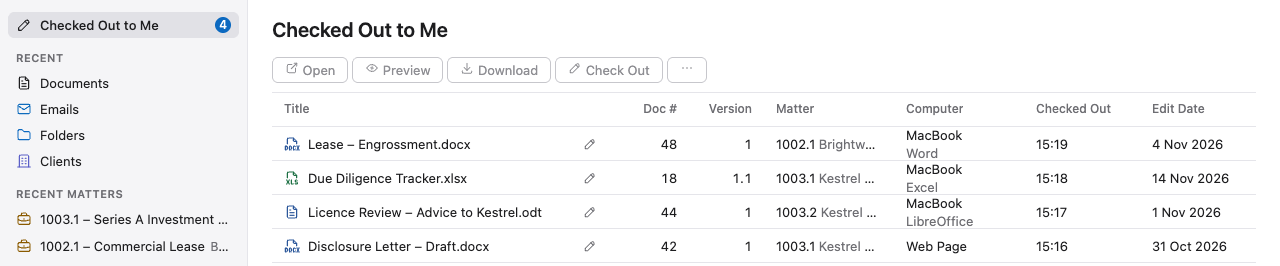
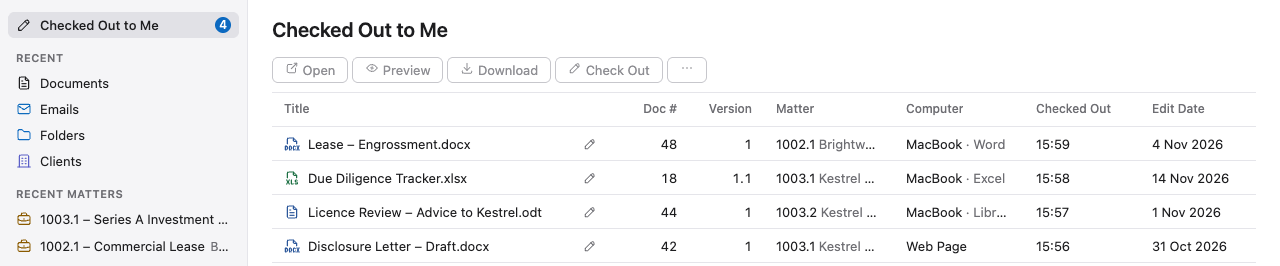
Bring the docs and test lists up to date with Checked Out to Me
- CLAUDE.md and the Developer Guide's Tests page list checked-out.spec.ts,
  and say a11y.spec.ts checks Checked Out to Me and the release warning.
- Checking Out and Checking In: the Computer column's app beside the
  computer, retaken pictures from a rebuilt image with shorter alt texts,
  same-named computers listed apart, who sees the History tab, and a
  crashed copy reopened on that computer checking out again.
- Document History: a release in the app records "The document has been
  unlocked", naming the computer and app when one of yours held it.
- openapi.yaml and the API page: a release with elsewhere=true isn't
  held-elsewhere, and an administrator's release of a device's check-out
  is recorded with the device and app too.
- The Web App page: the warning groups by device.

diff --git a/CLAUDE.md b/CLAUDE.md
@@ -117,7 +117,7 @@ python3 docker/demo/build.py                              # the demo firm's file
 - Tests (the Developer Guide's Tests page describes each):
   - `docker build --target tools .` for the init tool's unit tests (`DbInitPlanTest` reads the WAR's own `DbInit` scripts), and `WarParsersTest`, which parses a `.pptx`, an `.xlsx` and an `.xls` with the server's parsers for them on the WAR's own `WEB-INF/lib`. Maven's test classpath has every library's dependencies, so only it catches one of POI's that no plugin zip ships (#202). Other parsers' libraries aren't checked. `WarStorageTest`, beside it, does the same for `healdan-storage`'s zip. It builds the S3 client as the S3 backend does and sends one request to a closed loopback port, and it round-trips 3 MiB through Tink's streaming AEAD. A class of the AWS SDK's or Tink's that the zip leaves out fails the image build. `PluginInstallTest` installs the plugins as DockerInit does, then starts them again in a second JVM, as Tomcat does, which must ask for no restart. The copy of `web.xml` its installs edit is the one the image ships, so a container made afresh, whose plugins the repository volume says are installed, has their edits.
   - `docker/tests/test-*.sh`. Beside them, `docker/tests/bulk-documents.sh` isn't a test: it files `COUNT` generated documents into a folder on a throwaway stack (`BASE TOKEN FOLDER_ID COUNT [WORD]`), to measure big folders and searches.
-  - `docker/smoke-test.sh` for end to end. Its step 2b runs `docker/tests/test-proxies.sh`, which forwarded addresses Tomcat believes. Its step 5c runs `docker/tests/test-api.sh`, M2's client flow through `/api/v1` with a Bearer token, through CE's real filter chain (SOAP's addresses answering 404, sign in, file, check out, save, download, the throttle, LogicalDOC's `loginApiKey` refusing the token, sign out). That script needs a fresh stack with the smoke overlay (it signs in as `admin`/`admin`, and leaves a username blocked for 15 minutes). Its step 5d, only with `SMOKE_HELPER_TEST=1` (CI sets it, after setting up .NET), runs the helper's stack tests (`dotnet test clients/helper/Healdan.Helper.sln --filter Category=Stack` with `HEALDAN_STACK_URL`): `admin` opens, saves twice and closes a document through the helper's cycle, and `sso-helper2` signs in through the stand-in Keycloak as the helper does, with a fake browser (`HEALDAN_STACK_SIGNIN_PROVIDER`, `_USER`, `_PASSWORD`, and `HEALDAN_STACK_KEYCLOAK`, Keycloak's host port). Its step 5e runs `docker/tests/test-signin.sh`, provider sign-in through the stand-in Keycloak with `curl` and a cookie jar (the web page's flow, linking by email, the gate, the helper's code and its exchange, and a person disabled at Keycloak losing their device token at the next re-check). Its step 5f runs `docker/tests/test-storage.sh`, storage backends against the stand-in Garage: a file filed in Smoke Cloud reaches Garage encrypted, files moved in from Smoke move up uncached, reads come back through Garage and from the read cache, with Garage stopped a save waits in staging, an uncached file answers `503` through the API, `/download` and a shared link, and `/convertpdf` of an uncached PDF serves CE's placeholder, and a matter moved to Smoke brings its files home, Garage keeping them held. Step 8 runs it again with `after-restart`: the rows as they were, a file read through Garage for the first time, and one read from the cache rebuilt from its folder with Garage stopped. The script stops and starts Garage itself, and needs curl 8.0.0 or later, whose `--aws-sigv4` sends the `x-amz-content-sha256` header Garage requires. Its step 9, the last, runs `docker/tests/test-web.sh`, the User app in Chromium and WebKit: Playwright's specs (`healdan-web/web/e2e/`) in `mcr.microsoft.com/playwright:v<version>-noble`, whose tag is `@playwright/test`'s version in `package-lock.json`, with `--network host` (`WEB_NETWORK=bridge` is for Docker Desktop on a Mac: the browser still opens `127.0.0.1:<port>`, which a proxy in its container forwards to the host, as the web session refuses another Origin), signing in as `webuser` (see the smoke fixture overlay; `signin.spec.ts` follows a link into the app and a doc # link with its version, signed out, through the sign-in, `finding.spec.ts` files its own documents through the API and searches for them, `working.spec.ts` files a PDF and opens it in Quick Look, and checks that coming back to the window (a `focus` event) shows a check-out (in the details and the row's marker) and a save made through the API, `filing.spec.ts` files its own documents by dispatching drop events with a `DataTransfer` built in the page, and `organising.spec.ts` makes a folder, renames, moves (by the picker, and by a drag whose `dragstart` fills the same `DataTransfer` a drop reads) and deletes its own documents, in folders of its own inside the shared `E2E` folder, `folders.spec.ts` renames its own folders by F2, from the tree's ⋯, from the open folder's heading and from a right-click menu, once by keyboard alone, and checks Rename is greyed out on a top-level folder for a non-admin, `keyboard.spec.ts` walks rows 3 to 9 of M6's manual acceptance by keyboard alone, with no click after the sign-in page, in a folder of its own inside a shared `E2E` folder (it reaches controls with `tabTo`, starting some walks from a control it names and says why, focuses menu items and column headers directly, and leaves out Copy Link, whose clipboard differs between headless engines, and row 9's move into another matter, which would write through Garage after step 8 has checked its read cache; a step that can't be done by keys is a bug in the app), `resizing.spec.ts` drags the left pane's and the details' dividers and checks their widths survive a reload and that a narrow window has none, `context-menu.spec.ts` renames a document from the menu a right-click opens, moves one from the menu Shift+F10 opens on its row, by keys, and removes a favorite from its menu in My Favorites, in folders of its own inside the shared `E2E` folder (it adds matter 1.1 to My Matters for the move picker, and takes it out again after), `favorite-names.spec.ts` adds a folder of its own inside the shared `E2E` folder to My Favorites with its star, renames the favourite from its menu there, checks its name, tooltip and focus in the page and through the API, then gives it the folder's name back with Use Original Name (it removes the bookmark after, and the folder stays), and `a11y.spec.ts` runs axe on each main view in the light and the dark theme, in busy states and at 768 pixels, with contrast (it runs the workspace's own `axe-core` with `page.evaluate`, since `AppServlet`'s policy blocks a script tag with the source in it, and no spec turns the policy off), so step 9 first sets the Indexer, which runs every 30 minutes, to every 5 seconds in the conf volume's `context.properties` and restarts the app; it's last so that nothing else runs with a fast Indexer, which would read storage document C through Garage and fill the read cache that step 8 checks it never did. For a run of `test-web.sh` by hand, make the same change and set `HEALDAN_INDEXER_FAST=1`), then `curl` signs in, checking LogicalDOC's `SID` header, and checks that the web session refuses a cross-site sign-out and one without `X-Healdan-Client`, each call with `--max-time 30`. Playwright stops after 10 failures (`maxFailures`), so a broken stack fails the step in minutes, not the job's timeout. A new spec goes in `e2e/` and must not depend on what earlier smoke steps left. Its own API calls go through `helpers.ts`' `apiContext`, which sends each request on a connection of its own: Tomcat closes one that has waited 20 seconds, and a request sent on a kept one at that moment fails with `socket hang up`.
+  - `docker/smoke-test.sh` for end to end. Its step 2b runs `docker/tests/test-proxies.sh`, which forwarded addresses Tomcat believes. Its step 5c runs `docker/tests/test-api.sh`, M2's client flow through `/api/v1` with a Bearer token, through CE's real filter chain (SOAP's addresses answering 404, sign in, file, check out, save, download, the throttle, LogicalDOC's `loginApiKey` refusing the token, sign out). That script needs a fresh stack with the smoke overlay (it signs in as `admin`/`admin`, and leaves a username blocked for 15 minutes). Its step 5d, only with `SMOKE_HELPER_TEST=1` (CI sets it, after setting up .NET), runs the helper's stack tests (`dotnet test clients/helper/Healdan.Helper.sln --filter Category=Stack` with `HEALDAN_STACK_URL`): `admin` opens, saves twice and closes a document through the helper's cycle, and `sso-helper2` signs in through the stand-in Keycloak as the helper does, with a fake browser (`HEALDAN_STACK_SIGNIN_PROVIDER`, `_USER`, `_PASSWORD`, and `HEALDAN_STACK_KEYCLOAK`, Keycloak's host port). Its step 5e runs `docker/tests/test-signin.sh`, provider sign-in through the stand-in Keycloak with `curl` and a cookie jar (the web page's flow, linking by email, the gate, the helper's code and its exchange, and a person disabled at Keycloak losing their device token at the next re-check). Its step 5f runs `docker/tests/test-storage.sh`, storage backends against the stand-in Garage: a file filed in Smoke Cloud reaches Garage encrypted, files moved in from Smoke move up uncached, reads come back through Garage and from the read cache, with Garage stopped a save waits in staging, an uncached file answers `503` through the API, `/download` and a shared link, and `/convertpdf` of an uncached PDF serves CE's placeholder, and a matter moved to Smoke brings its files home, Garage keeping them held. Step 8 runs it again with `after-restart`: the rows as they were, a file read through Garage for the first time, and one read from the cache rebuilt from its folder with Garage stopped. The script stops and starts Garage itself, and needs curl 8.0.0 or later, whose `--aws-sigv4` sends the `x-amz-content-sha256` header Garage requires. Its step 9, the last, runs `docker/tests/test-web.sh`, the User app in Chromium and WebKit: Playwright's specs (`healdan-web/web/e2e/`) in `mcr.microsoft.com/playwright:v<version>-noble`, whose tag is `@playwright/test`'s version in `package-lock.json`, with `--network host` (`WEB_NETWORK=bridge` is for Docker Desktop on a Mac: the browser still opens `127.0.0.1:<port>`, which a proxy in its container forwards to the host, as the web session refuses another Origin), signing in as `webuser` (see the smoke fixture overlay; `signin.spec.ts` follows a link into the app and a doc # link with its version, signed out, through the sign-in, `finding.spec.ts` files its own documents through the API and searches for them, `working.spec.ts` files a PDF and opens it in Quick Look, and checks that coming back to the window (a `focus` event) shows a check-out (in the details and the row's marker) and a save made through the API, `filing.spec.ts` files its own documents by dispatching drop events with a `DataTransfer` built in the page, and `organising.spec.ts` makes a folder, renames, moves (by the picker, and by a drag whose `dragstart` fills the same `DataTransfer` a drop reads) and deletes its own documents, in folders of its own inside the shared `E2E` folder, `folders.spec.ts` renames its own folders by F2, from the tree's ⋯, from the open folder's heading and from a right-click menu, once by keyboard alone, and checks Rename is greyed out on a top-level folder for a non-admin, `keyboard.spec.ts` walks rows 3 to 9 of M6's manual acceptance by keyboard alone, with no click after the sign-in page, in a folder of its own inside a shared `E2E` folder (it reaches controls with `tabTo`, starting some walks from a control it names and says why, focuses menu items and column headers directly, and leaves out Copy Link, whose clipboard differs between headless engines, and row 9's move into another matter, which would write through Garage after step 8 has checked its read cache; a step that can't be done by keys is a bug in the app), `resizing.spec.ts` drags the left pane's and the details' dividers and checks their widths survive a reload and that a narrow window has none, `context-menu.spec.ts` renames a document from the menu a right-click opens, moves one from the menu Shift+F10 opens on its row, by keys, and removes a favorite from its menu in My Favorites, in folders of its own inside the shared `E2E` folder (it adds matter 1.1 to My Matters for the move picker, and takes it out again after), `favorite-names.spec.ts` adds a folder of its own inside the shared `E2E` folder to My Favorites with its star, renames the favourite from its menu there, checks its name, tooltip and focus in the page and through the API, then gives it the folder's name back with Use Original Name (it removes the bookmark after, and the folder stays), `checked-out.spec.ts` files a `.docx` with a device token in a folder of its own inside the shared `E2E` folder, checks it out for Word with that token, opens Checked Out to Me, checks the row's computer and app and that the entry's badge equals the list's row count, opens the warning and cancels, releases with Release Document, and checks that the token's save with `ifHeld: true` is then `409 not-held` (it releases and signs the token out after), and `a11y.spec.ts` runs axe on each main view, Checked Out to Me and the warning before a release among them, in the light and the dark theme, in busy states and at 768 pixels, with contrast (it runs the workspace's own `axe-core` with `page.evaluate`, since `AppServlet`'s policy blocks a script tag with the source in it, and no spec turns the policy off), so step 9 first sets the Indexer, which runs every 30 minutes, to every 5 seconds in the conf volume's `context.properties` and restarts the app; it's last so that nothing else runs with a fast Indexer, which would read storage document C through Garage and fill the read cache that step 8 checks it never did. For a run of `test-web.sh` by hand, make the same change and set `HEALDAN_INDEXER_FAST=1`), then `curl` signs in, checking LogicalDOC's `SID` header, and checks that the web session refuses a cross-site sign-out and one without `X-Healdan-Client`, each call with `--max-time 30`. Playwright stops after 10 failures (`maxFailures`), so a broken stack fails the step in minutes, not the job's timeout. A new spec goes in `e2e/` and must not depend on what earlier smoke steps left. Its own API calls go through `helpers.ts`' `apiContext`, which sends each request on a connection of its own: Tomcat closes one that has waited 20 seconds, and a request sent on a kept one at that moment fails with `socket hang up`.
     - When it fails, it prints the app container's last output, Keycloak's, Garage's and its setup's, then the run's warnings and errors, the last three API requests that failed with a `500` with their stack frames (a client that went away, Tomcat's `ClientAbortException`, isn't one: `ProblemMapper` logs it in one line at info, its frames at debug, and writes no problem to it, and the dump skips one an older server logged), and the tail of `dms.log`, the server's own log. A failed browser test in step 9 prints its page as Playwright saw it. The app's warnings go only there, in the repository volume, which step 8's restart keeps. Each `FAIL` line ends with its UTC time, and the smoke stack logs in UTC.
 - **The smoke fixture overlay.** Healdan refuses documents outside a matter, and a fresh stack has none. `docker/tests/compose.smoke.yaml` sets `HEALDAN_SMOKE_FIXTURE=true`, which makes the `smoke-fixture` seed create Store "Smoke", a template, client 1 and matter 1.1 with a Documents folder, the `smoke-organising` seed give Everyone Rename, Move and Delete in that template and the matters made from it (a step of its own, as a shipped step never changes), and the `smoke-api-user` seed the non-admin `apiuser` that `test-api.sh` signs in as, and `smoke-web-user` the non-admin `webuser` that `test-web.sh` signs in as, apart from `apiuser` because `test-api.sh` leaves that one blocked by the throttle for 15 minutes (each only on a stack with no other users, besides CE's own, the sign-in step's and, for `webuser`, `apiuser`, since their passwords are published). `docker/smoke-test.sh` adds the overlay itself. Add it (`-f compose.yaml -f docker/tests/compose.smoke.yaml`) to a throwaway stack that needs somewhere to upload. Production never sets the variable.
 - **The sign-in overlay.** `docker/tests/compose.signin.yaml`, which `docker/smoke-test.sh` adds too, runs Keycloak 26.7.5 as a stand-in OpenID Connect provider, with the realm in `docker/tests/keycloak/healdan-realm.json`, published on `127.0.0.1:18180` only (`SMOKE_KEYCLOAK_PORT`). It names itself `http://keycloak:8080`, as the app reaches it; the host's `curl` uses `--connect-to keycloak:8080:127.0.0.1:18180`. The overlay sets `HEALDAN_SIGNIN_ALLOW_HTTP=true` and `HEALDAN_SMOKE_SIGNIN_ISSUER`, `_CLIENT_ID` and `_CLIENT_SECRET`, with which, and the smoke overlay's `HEALDAN_SMOKE_FIXTURE=true`, the `smoke-signin` seed adds provider `smoke`, maps `healdan-users` to group `Smoke SSO`, makes the local account `sso-user` for the first sign-in to link by email, and sets `signin.recheck.minutes` to 0. Production never sets the variables.

diff --git a/site/content/developer/tests.md b/site/content/developer/tests.md
@@ -306,24 +306,35 @@ code is laid out.
     and checks the new name in **My Favorites** and through the API, the tooltip unchanged and the focus back on the
     favourite, then gives it the folder's name back with **Use Original Name**. Afterwards it removes the bookmark,
     if a failed run left it; the folder stays.
+  - `checked-out.spec.ts` checks **Checked Out to Me** and releasing another computer's check-out. It files a `.docx`
+    with a device token, in a folder of its own inside `E2E`, and checks it out for Word with that token, as the
+    helper does when Word opens it. Through the page it opens **Checked Out to Me** from its entry, and checks the
+    row's **Computer** (the token's name, and Word) and that the entry's badge equals the list's row count (the
+    list's `aria-rowcount`, as other runs may have documents checked out to `webuser`). It then opens the warning with
+    **Release…**, checks that **Cancel** has the focus and cancels, the document still checked out on the token's
+    computer, then releases it with **Release Document** and checks that the row leaves the list, that the badge
+    drops by one, and that the token's save with `ifHeld: true` is then `409 not-held`, as the computer's next save
+    would be. Afterwards it releases the document, if a failed run left it held, and signs the token out.
   - `a11y.spec.ts` runs axe on each main view in the light theme and again in the dark one (a browser context with
-    Playwright's `colorScheme`, signed in once per theme): Recent's four lists, a matter, a folder with details (its
-    toolbar buttons all one height, and a document the spec checked out through the API, and releases at the end, whose
-    row shows its marker and is 34 pixels high, as a free row is), the properties form, that document's details with
-    its **Check-Out Info** and the **Versions** tab, Filters (with one in use, and while the counts are held open
-    with `page.route`, since busy states keep AA contrast and the last answer's counts must stay, never zeros), the list
-    while it is asked for again, the filing tray and the File Documents form, the rename field, the delete question, the
-    Help menu, search results for a word with their Filters (Title keeps 200 pixels, and text that doesn't fit ends in an
-    ellipsis), a document's page, Quick Look on a PDF and on an email, the reading pane, New Folder, More and Move To… (a
-    matter's client starts clear of it, drawn smaller), the person menu, Signed-in Devices (whole in its dialog, with no
-    sideways scroll, every Revoke inside it and a name of at most two lines at 1280, and again at 768) with the Revoke
-    question and its refusal (and a real revoke, whose focus must stay in the dialog), at 768 × 1024 the folded top bar
-    with the left pane, the empty region and the details opened over the list, and last the signed-out screen (the session
-    is ended with `DELETE /api/v1/session` from the page). Colour contrast is checked here, as jsdom can't. axe-core is
-    the workspace's own development dependency: `e2e/axe.ts` reads its file from `node_modules` and runs it with
-    `page.evaluate`, which the browser's debugging protocol does and the page's Content-Security-Policy doesn't govern, so
-    the policy stays as the app ships it. No spec turns it off: `addScriptTag` with the source in it would be blocked by
-    `script-src 'self'`, and `bypassCSP` would test a page the app never serves.
+    Playwright's `colorScheme`, signed in once per theme): Recent's four lists, **Checked Out to Me** with a document
+    the spec checked out on its token, and the warning before releasing it (closed with Esc, so nothing is released), a
+    matter, a folder with details (its toolbar buttons all one height, and a document the spec checked out through the
+    API, and releases at the end, whose row shows its marker and is 34 pixels high, as a free row is), the properties
+    form, that document's details with its **Check-Out Info** and the **Versions** tab, Filters (with one in use, and
+    while the counts are held open with `page.route`, since busy states keep AA contrast and the last answer's counts
+    must stay, never zeros), the list while it is asked for again, the filing tray and the File Documents form, the
+    rename field, the delete question, the Help menu, search results for a word with their Filters (Title keeps 200
+    pixels, and text that doesn't fit ends in an ellipsis), a document's page, Quick Look on a PDF and on an email, the
+    reading pane, New Folder, More and Move To… (a matter's client starts clear of it, drawn smaller), the person menu,
+    Signed-in Devices (whole in its dialog, with no sideways scroll, every Revoke inside it and a name of at most two
+    lines at 1280, and again at 768) with the Revoke question and its refusal (and a real revoke, whose focus must stay
+    in the dialog), at 768 × 1024 the folded top bar with the left pane, the empty region and the details opened over
+    the list, and last the signed-out screen (the session is ended with `DELETE /api/v1/session` from the page). Colour
+    contrast is checked here, as jsdom can't. axe-core is the workspace's own development dependency: `e2e/axe.ts` reads
+    its file from `node_modules` and runs it with `page.evaluate`, which the browser's debugging protocol does and the
+    page's Content-Security-Policy doesn't govern, so the policy stays as the app ships it. No spec turns it off:
+    `addScriptTag` with the source in it would be blocked by `script-src 'self'`, and `bypassCSP` would test a page the
+    app never serves.
   - `resizing.spec.ts` files a document into a folder of its own inside `E2E`, and through the page drags the left
     pane's divider with the mouse and checks the pane's width, its value and that the list's Title column narrowed (the
     virtualiser measured the narrower list); reloads and finds the width kept; moves it by keys; checks that a window

diff --git a/site/content/user/documents/checking-out-and-checking-in/index.md b/site/content/user/documents/checking-out-and-checking-in/index.md
@@ -56,14 +56,14 @@ wherever you checked it out: in the app, in the Classic Interface, or on any of 
 [Healdan Helper](../../office/). It's the place to look for work still in progress, or for a document you forgot to
 check in. Beside it, a count says how many there are, once there's at least one.
 
-![Checked Out to Me open in the main area, its entry highlighted at the top of the left pane above Recent, with 4 beside it. No document is selected, so the toolbar's buttons are greyed out. Its list has the columns Title, Doc #, Version, Matter, Computer, Checked Out and Edit Date: Lease – Engrossment.docx, Due Diligence Tracker.xlsx and Licence Review – Advice to Kestrel.odt, each on MacBook, with Word, Excel and LibreOffice under it, checked out at 15:19, 15:18 and 15:17, then Disclosure Letter – Draft.docx on Web Page, checked out at 15:16](checked-out-to-me.png)
+![Checked Out to Me open in the main area, its entry highlighted at the top of the left pane with 4 beside it. Its list shows three documents on MacBook, each with its app beside the computer's name, LibreOffice cut short with an ellipsis, then one on Web Page, the latest check-out first](checked-out-to-me.png)
 
 | Column | What it shows |
 |---|---|
 | **Title** | The document's name, with the pencil at its end |
 | **Doc #**, **Version** | Its doc # and version |
 | **Matter** | Its matter's number, with the client's name beside it in paler type |
-| **Computer** | The computer it's checked out on, such as "MacBook", with the app under it, such as Word. **Web Page** for one checked out in the app or the Classic Interface, which belongs to no computer |
+| **Computer** | The computer it's checked out on, such as "MacBook", with the app beside it in paler type, such as Word. **Web Page** for one checked out in the app or the Classic Interface, which belongs to no computer |
 | **Checked Out** | When you checked it out, or last saved to it from the computer that holds it, as **Check-Out Time** in its [Check-Out Info](#check-out-info) |
 | **Edit Date** | When it was last saved to Healdan |
 
@@ -142,7 +142,7 @@ right-click menu.
 Releasing it throws away whatever was done on that computer since its last save to Healdan, so Healdan asks first,
 naming the computer:
 
-![The warning Release 3 Documents from MacBook?, over Checked Out to Me with its three MacBook documents selected and Release… in the toolbar. It says they're checked out to you on MacBook, and lists each with its doc #, app and last save to Healdan: Lease – Engrossment.docx, # 48, Word, saved 4 Nov 2026, 11:00; Due Diligence Tracker.xlsx, # 18, Excel, saved 14 Nov 2026, 16:00; and Licence Review – Advice to Kestrel.odt, # 44, LibreOffice, saved 1 Nov 2026, 15:00. A red box says that changes on MacBook that haven't reached Healdan will be lost, that MacBook can't save to these documents again, and that uploading its copies as new versions rescues those changes. A note says to revoke MacBook's sign-in in Signed-in Devices, a link, if it was lost or stolen. Then the red Release 3 Documents button, and Cancel](release-warning.png)
+![The warning Release 3 Documents from MacBook?, over Checked Out to Me with MacBook's three documents selected. It lists Lease – Engrossment.docx, Due Diligence Tracker.xlsx and Licence Review – Advice to Kestrel.odt, each with its doc #, app and last save to Healdan, then a red box saying that changes on MacBook that haven't reached Healdan will be lost, a note linking to Signed-in Devices, the red Release 3 Documents button, and Cancel](release-warning.png)
 
 - **The list** has the documents checked out on that computer, each with its doc #, its app and when it was last
   saved to Healdan. Work done on the computer since then isn't in Healdan.
@@ -154,11 +154,13 @@ naming the computer:
   Releasing doesn't revoke it, and revoking doesn't release its check-outs: for a lost computer, do both.
 
 You can release several documents at once, from one computer or several, as long as each is checked out to you: the
-warning then lists each computer's documents under its name. Check-outs made in the app among them are released too,
-without being listed. If Healdan refuses any, it names them, and the rest are released.
+warning then lists each computer's documents under its name, and two computers with the same name, such as a new Mac
+restored from a lost one's backup, get a list each. Check-outs made in the app among them are released too, without
+being listed. If Healdan refuses any, it names them, and the rest are released.
 
 The document's history records the release, naming the computer and the app, such as "Released while checked out on
-Healdan Helper on MacBook (Word)": see [Document History](../document-history/).
+Healdan Helper on MacBook (Word)". The history is the **History** tab in the Classic Interface, which administrators
+see, and anyone their administrator has given the History menu: see [Document History](../document-history/).
 
 #### Rescuing That Computer's Work
 
@@ -167,6 +169,9 @@ Work on the computer that hadn't reached Healdan isn't in the document, but it m
 - **If the computer comes back,** its Healdan Helper refuses the next save there and keeps its copy: choose
   **Save as New Document** to file the changes as a document of their own. See
   [Your Check-Out Ended](../../office/when-things-go-wrong/#your-check-out-ended).
+- **If its app had crashed,** and you reopen the kept copy on that computer while nobody has the document and nothing
+  newer has been stored in Healdan, the Healdan Helper checks it out to you again, and the copy saves as before. See
+  [Reopening After a Crash](../../office/when-things-go-wrong/#reopening-after-a-crash).
 - **If you have a copy of the file,** drop it on the document's row in the app and choose to save it as the
   document's next version. See [Dropping a File on a Document](../../working-with-matters/filing-a-document/#dropping-a-file-on-a-document).
 

diff --git a/site/content/developer/api.md b/site/content/developer/api.md
@@ -544,7 +544,9 @@ this, because the same person may have the document open on two computers.
   with the device's name and app, and that device's next save with `ifHeld: true` is `409 not-held`. Without the
   flag, or with `elsewhere=false`, the release is `409 held-elsewhere`. The flag changes nothing else: someone else
   still gets `409 checked-out` or `locked`, an administrator releases as before, and a check-out held on the
-  caller's own device, or on none, is released as it would be without it.
+  caller's own device, or on none, is released as it would be without it. An administrator's release is recorded in
+  the same way: whenever a check-out a device holds is released from anywhere but that device, the history's comment
+  names the device and its app, such as "Released while checked out on Healdan Helper on MacBook (Word)".
 - **Healdan's own pages are no device.** On the web session, a document you have checked out on one of your devices
   is `409 held-elsewhere`, as for a token with no device, and `move` can't bring the check-out to the page. A release
   with `elsewhere=true` can end it.

diff --git a/site/content/developer/the-web-app.md b/site/content/developer/the-web-app.md
@@ -225,7 +225,8 @@ view.
 - **Release** (`actions/ReleaseProvider.tsx`, in the frame) is every release, from the toolbar, a row's menu and
   Check-Out Info: `useReleasing().askRelease(documents)` decides once, by `holdState`'s `yourDevice`, which of them
   another of the person's computers holds. When any is, it shows `ConfirmRelease` first, an alert dialog that lists
-  them by computer, with the red button first and Cancel focused; then it releases each in turn (`eachDocument`),
+  them by computer (by `hold.device.id`, not the name, so two computers of one name are two lists), with the red
+  button first and Cancel focused; then it releases each in turn (`eachDocument`),
   sending `elsewhere=true` only for those, and names the refusals in `Refusals`. Its mutation's variables are the
   documents, which `useHoldsBusy` reads to make every control that offers a change to one of them pending.
 - **Editing properties** is `details/PropertiesForm.tsx`, made from `GET /v1/documents/{n}/properties` and saved with

diff --git a/site/content/user/documents/document-history/index.md b/site/content/user/documents/document-history/index.md
@@ -53,7 +53,7 @@ Each event reads as it does on the tab:
 | Document metadata have been changed | its properties changed, its tags among them |
 | Document renamed, Document moved | its name or folder changed |
 | Added new note | someone added a [note](../notes/) |
-| The document has been locked, The document has been unlocked | a [lock](../locking-a-document/) |
+| The document has been locked, The document has been unlocked | a [lock](../locking-a-document/). Releasing a [check-out](../checking-out-and-checking-in/#giving-up-a-check-out) in the app records "The document has been unlocked" too, and when one of your computers held it, the comment names that computer and its app, such as "Released while checked out on Healdan Helper on MacBook (Word)" |
 | The document has been protected by a password | a password was set |
 | The document has been downloaded | someone downloaded it |
 | Document has been viewed | someone opened its preview: at most once every 30 seconds in each session |
